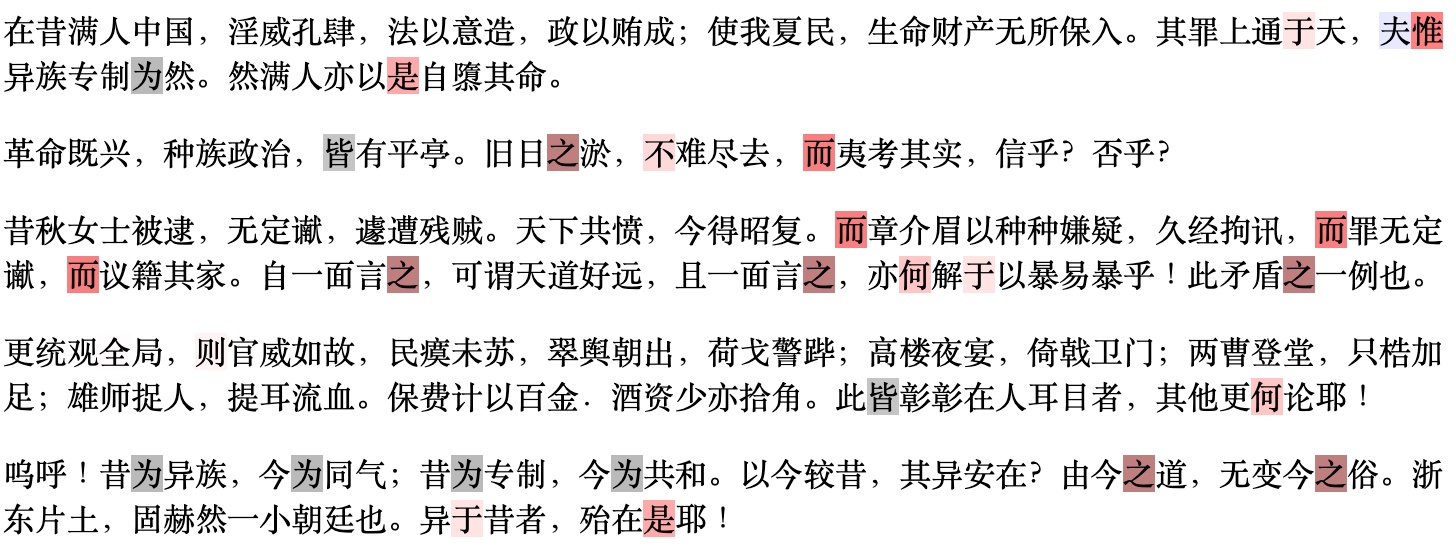
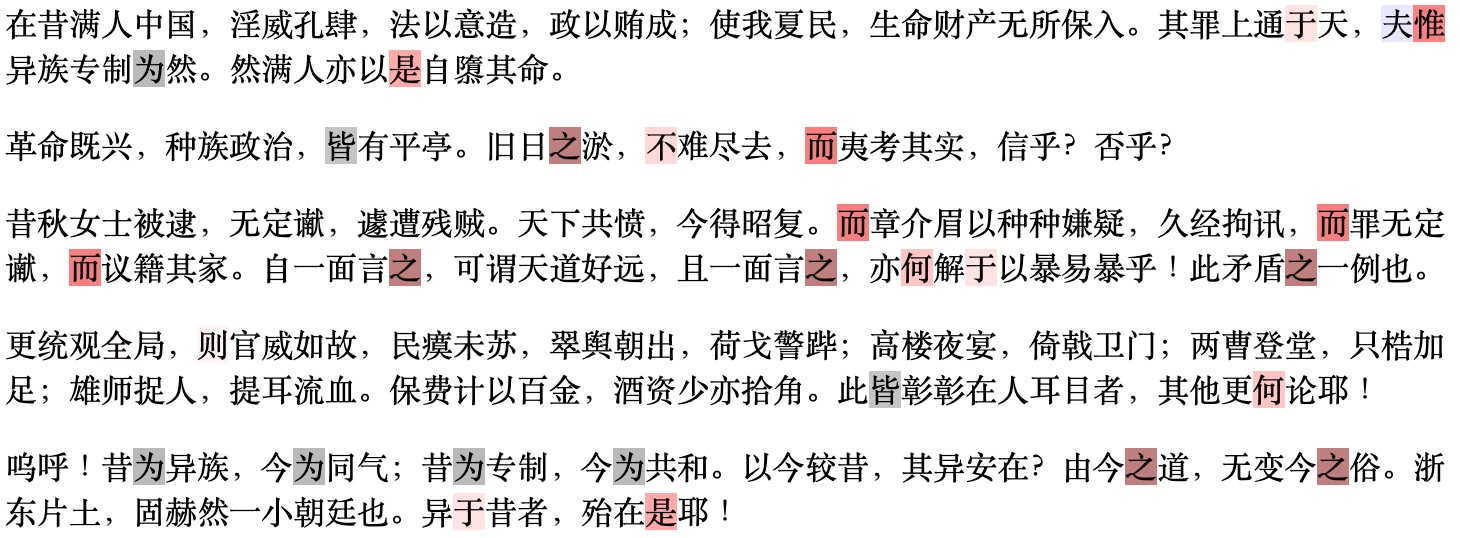
Fix a punctuation issue

diff --git a/visualization/民国之征何在.html b/visualization/民国之征何在.html
@@ -5,7 +5,7 @@
         <meta charset="UTF-8">
     </head>
     <body>
-    <p>在昔满人中国，淫威孔肆，法以意造，政以贿成；使我夏民，生命财产无所保入。其罪上通<mark style="background-color:rgba(255, 201, 201, 0.5);">于</mark>天，<mark style="background-color:rgba(209, 209, 255, 0.5);">夫</mark><mark style="background-color:rgba(255, 5, 5, 0.5);">惟</mark>异族专制<mark style="background-color:rgba(117, 117, 117, 0.5);">为</mark>然。然满人亦以<mark style="background-color:rgba(255, 85, 85, 0.5);">是</mark>自隳其命。</p><p></p><p>革命既兴，种族政治，<mark style="background-color:rgba(139, 139, 139, 0.5);">皆</mark>有平亭。旧日<mark style="background-color:rgba(127, 0, 0, 0.5);">之</mark>淤，<mark style="background-color:rgba(255, 180, 180, 0.5);">不</mark>难尽去，<mark style="background-color:rgba(241, 0, 0, 0.5);">而</mark>夷考其实，信乎？否乎？</p><p></p><p>昔秋女士被逮，无定谳，遽遭残贼。天下共愤，今得昭复。<mark style="background-color:rgba(241, 0, 0, 0.5);">而</mark>章介眉以种种嫌疑，久经拘讯，<mark style="background-color:rgba(241, 0, 0, 0.5);">而</mark>罪无定谳，<mark style="background-color:rgba(241, 0, 0, 0.5);">而</mark>议籍其家。自一面言<mark style="background-color:rgba(127, 0, 0, 0.5);">之</mark>，可谓天道好远，且一面言<mark style="background-color:rgba(127, 0, 0, 0.5);">之</mark>，亦<mark style="background-color:rgba(255, 141, 141, 0.5);">何</mark>解<mark style="background-color:rgba(255, 201, 201, 0.5);">于</mark>以暴易暴乎！此矛盾<mark style="background-color:rgba(127, 0, 0, 0.5);">之</mark>一例也。</p><p></p><p>更统观<mark style="background-color:rgba(255, 249, 249, 0.5);">全</mark>局，<mark style="background-color:rgba(255, 233, 233, 0.5);">则</mark>官威如故，民瘼未苏，翠舆朝出，荷戈警跸；高楼夜宴，倚戟卫门；两曹登堂，只梏加足；雄师捉人，提耳流血。保费计以百金．酒资少亦拾角。此<mark style="background-color:rgba(139, 139, 139, 0.5);">皆</mark>彰彰在人耳目者，其他更<mark style="background-color:rgba(255, 141, 141, 0.5);">何</mark>论耶！</p><p></p><p>呜呼！昔<mark style="background-color:rgba(117, 117, 117, 0.5);">为</mark>异族，今<mark style="background-color:rgba(117, 117, 117, 0.5);">为</mark>同气；昔<mark style="background-color:rgba(117, 117, 117, 0.5);">为</mark>专制，今<mark style="background-color:rgba(117, 117, 117, 0.5);">为</mark>共和。以今较昔，其异安在？由今<mark style="background-color:rgba(127, 0, 0, 0.5);">之</mark>道，无变今<mark style="background-color:rgba(127, 0, 0, 0.5);">之</mark>俗。浙东片土，固赫然一小朝廷也。异<mark style="background-color:rgba(255, 201, 201, 0.5);">于</mark>昔者，殆在<mark style="background-color:rgba(255, 85, 85, 0.5);">是</mark>耶！</p>
+    <p>在昔满人中国，淫威孔肆，法以意造，政以贿成；使我夏民，生命财产无所保入。其罪上通<mark style="background-color:rgba(255, 201, 201, 0.5);">于</mark>天，<mark style="background-color:rgba(209, 209, 255, 0.5);">夫</mark><mark style="background-color:rgba(255, 5, 5, 0.5);">惟</mark>异族专制<mark style="background-color:rgba(117, 117, 117, 0.5);">为</mark>然。然满人亦以<mark style="background-color:rgba(255, 85, 85, 0.5);">是</mark>自隳其命。</p><p></p><p>革命既兴，种族政治，<mark style="background-color:rgba(139, 139, 139, 0.5);">皆</mark>有平亭。旧日<mark style="background-color:rgba(127, 0, 0, 0.5);">之</mark>淤，<mark style="background-color:rgba(255, 180, 180, 0.5);">不</mark>难尽去，<mark style="background-color:rgba(241, 0, 0, 0.5);">而</mark>夷考其实，信乎？否乎？</p><p></p><p>昔秋女士被逮，无定谳，遽遭残贼。天下共愤，今得昭复。<mark style="background-color:rgba(241, 0, 0, 0.5);">而</mark>章介眉以种种嫌疑，久经拘讯，<mark style="background-color:rgba(241, 0, 0, 0.5);">而</mark>罪无定谳，<mark style="background-color:rgba(241, 0, 0, 0.5);">而</mark>议籍其家。自一面言<mark style="background-color:rgba(127, 0, 0, 0.5);">之</mark>，可谓天道好远，且一面言<mark style="background-color:rgba(127, 0, 0, 0.5);">之</mark>，亦<mark style="background-color:rgba(255, 141, 141, 0.5);">何</mark>解<mark style="background-color:rgba(255, 201, 201, 0.5);">于</mark>以暴易暴乎！此矛盾<mark style="background-color:rgba(127, 0, 0, 0.5);">之</mark>一例也。</p><p></p><p>更统观<mark style="background-color:rgba(255, 249, 249, 0.5);">全</mark>局，<mark style="background-color:rgba(255, 233, 233, 0.5);">则</mark>官威如故，民瘼未苏，翠舆朝出，荷戈警跸；高楼夜宴，倚戟卫门；两曹登堂，只梏加足；雄师捉人，提耳流血。保费计以百金，酒资少亦拾角。此<mark style="background-color:rgba(139, 139, 139, 0.5);">皆</mark>彰彰在人耳目者，其他更<mark style="background-color:rgba(255, 141, 141, 0.5);">何</mark>论耶！</p><p></p><p>呜呼！昔<mark style="background-color:rgba(117, 117, 117, 0.5);">为</mark>异族，今<mark style="background-color:rgba(117, 117, 117, 0.5);">为</mark>同气；昔<mark style="background-color:rgba(117, 117, 117, 0.5);">为</mark>专制，今<mark style="background-color:rgba(117, 117, 117, 0.5);">为</mark>共和。以今较昔，其异安在？由今<mark style="background-color:rgba(127, 0, 0, 0.5);">之</mark>道，无变今<mark style="background-color:rgba(127, 0, 0, 0.5);">之</mark>俗。浙东片土，固赫然一小朝廷也。异<mark style="background-color:rgba(255, 201, 201, 0.5);">于</mark>昔者，殆在<mark style="background-color:rgba(255, 85, 85, 0.5);">是</mark>耶！</p>
     </body>
     </html>
     
